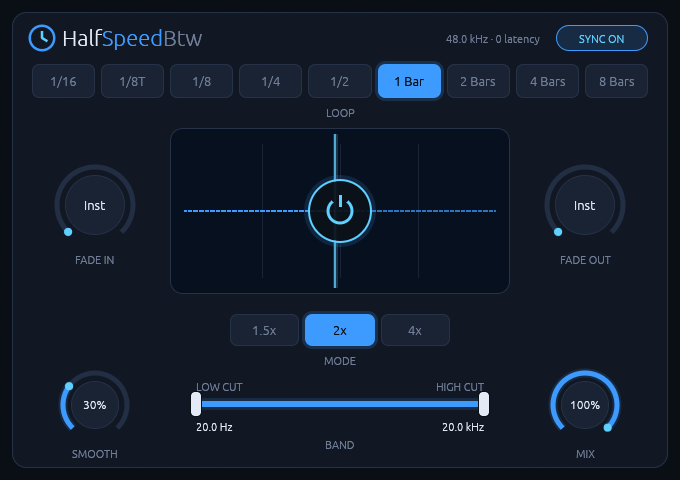
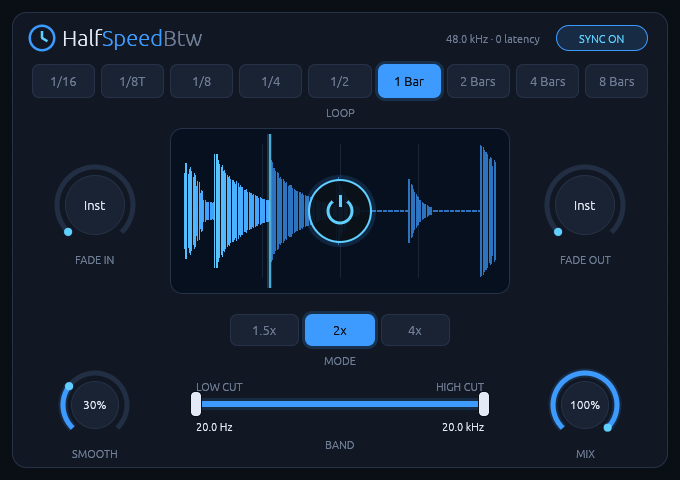
Rewrite README with features, screenshots, build and licensing
Describe the effect and every control, explain how it works and why
it adds no latency, list build and runtime requirements with Arch
packages, and give build, install and standalone instructions. Cover
licensing, third-party notices and trademarks.

Replace the screenshot with one of the plugin processing a drum loop
and add a second showing tweaked settings.

diff --git a/README.md b/README.md
@@ -1,57 +1,213 @@
 # HalfSpeedBtw
 
-![HalfSpeedBtw editor](docs/screenshot.png)
+**A tempo-synced half-speed loop effect for Linux, with zero added latency.**
+CLAP and VST3, written in Rust.
 
-A Linux-native slowdown loop effect (CLAP + VST3), written in Rust on
-[nice-plug](https://codeberg.org/RustAudio/nice-plug), the maintained community
-successor to nih-plug.
+![HalfSpeedBtw slowing down a drum loop: 1 bar, 2x](docs/screenshot.png)
 
-**Status:** the core half-speed effect works and is covered by tests. It hasn't
-been listening-tested in a DAW yet.
+HalfSpeedBtw makes anything sound like it's playing at half speed (or at 1.5x
+or 4x slower) while staying locked to your project's tempo. Put it on drums for
+the classic half-time groove, on a vocal for a dragged, pitched-down tail, or
+at short loop lengths for tape-stop and stutter effects. Automate the power
+switch to drop it in for a fill or a breakdown.
 
-## How it works
+It runs natively on Linux. It has no network access and no telemetry, and it
+never allocates memory on the audio thread.
 
-Each loop cycle replays the audio captured since the cycle started, slowed
-down by the mode (1.5x, 2x or 4x slower). The sample played `t` samples into a
-cycle was captured `t / slowdown` samples into it, so it is always in the
-past. That means **zero added latency**: no lookahead and nothing reported to
-the host.
+## Features
 
-- **Loop:** 1/16, 1/8T, 1/8, 1/4, 1/2, 1, 2, 4 or 8 bars. While the transport
-  plays with Sync on, cycles line up with the host's bar grid and time
-  signature. Seeking or a DAW loop wrap-around restarts the cycle at the right
-  offset. When the transport is stopped, or Sync is off, loops free-run at the
-  host tempo.
-- **Power switch** (center of the display): switches the effect on and off.
-  While it's off, the loop keeps running so it stays in time.
-- **Fade In / Fade Out:** how long the effect takes to fade in or out when
-  switched, from instant up to 16 bars.
-- **Smooth:** sets the equal-power crossfade at each loop restart, from 1 ms
+- **Three slowdown modes:** 1.5x, 2x and 4x slower. The pitch drops with the
+  speed, by about a fifth, one octave and two octaves.
+- **Nine tempo-synced loop lengths:** 1/16, 1/8T, 1/8, 1/4, 1/2, 1 bar, 2 bars,
+  4 bars and 8 bars, following the host's tempo and time signature.
+- **Locked to the bar grid:** loops restart on the host's grid while the
+  transport plays. They recover cleanly when you seek or when the DAW loops
+  back. While the transport is stopped, they keep running at the host tempo.
+- **Zero latency:** nothing is reported to the host and there's no lookahead.
+  See [How it works](#how-it-works).
+- **Musical fades:** separate fade in and fade out lengths for switching the
+  effect on and off, from instant up to 16 bars.
+- **Smooth:** an equal-power crossfade at every loop restart, from a tight 1 ms
   up to a quarter of the loop.
-- **Band:** a low cut and a high cut (12 dB/octave state-variable filters) on
-  the slowed-down signal. At their end stops the filters are fully bypassed.
-- **Mix:** dry/wet balance, smoothed over 20 ms.
-- **Display:** the slowed-down signal's level across the current cycle, with
-  a playhead.
-- **Not yet:** reverse playback and per-band processing.
+- **Band:** low cut and high cut filters on the slowed-down signal only, so the
+  dry signal keeps its full range.
+- **Mix:** blends the dry and slowed-down signals.
+- **Live waveform:** the display shows the slowed-down signal across the
+  current loop, with a playhead.
+- **Click-free:** every parameter change and every loop restart is ramped or
+  crossfaded, and all parameters can be automated sample-accurately.
+- **Mono and stereo.**
+
+## Screenshots
+
+| Classic half-time: 1 bar, 2x, everything open | Tweaked: 1/2 bar, 4x, fades, narrow band, 80% mix |
+| --- | --- |
+| ![Default settings with a drum loop playing](docs/screenshot.png) | ![Tweaked settings with a drum loop playing](docs/screenshot-tweaked.png) |
 
 ## Controls
 
-Drag knobs up or down; hold Shift for fine control. Double-click a knob or a
-band handle to reset it.
+| Control | Range | Default | What it does |
+| --- | --- | --- | --- |
+| **Power switch** (center of the display) | On / Off | On | Fades the effect in or out. While it's off, the loop keeps running, so switching it back on lands in time. |
+| **Loop** | 1/16 to 8 bars | 1 bar | Length of each loop cycle. |
+| **Mode** | 1.5x, 2x, 4x | 2x | How much slower the loop plays. |
+| **Fade In** | Inst to 16 bars | Inst | How long the effect takes to fade in after you switch it on. |
+| **Fade Out** | Inst to 16 bars | Inst | How long it takes to fade out after you switch it off. |
+| **Smooth** | 0 to 100% | 30% | Crossfade at each loop restart: 1 ms at 0%, a quarter of the loop at 100%. |
+| **Band** | 20 Hz to 20 kHz | Fully open | Low cut and high cut on the slowed-down signal (12 dB/octave). At their end stops the filters are switched off completely. |
+| **Mix** | 0 to 100% | 100% | Dry/wet balance. |
+| **Sync** (top right) | On / Off | On | On: loops follow the host's bar grid while playing. Off: loops free-run at the host tempo. |
 
-## Layout
+**Mouse:** drag knobs up or down, and hold Shift for fine control.
+Double-click a knob or a band handle to reset it. Every control is also
+available as a host parameter for automation.
 
-| Path                  | What it is                                                     |
-| --------------------- | -------------------------------------------------------------- |
-| `crates/halfspeed-dsp` | Plugin-API-independent DSP engine (no dependencies)            |
-| `crates/halfspeedbtw` | Plugin shell: parameters, editor, CLAP/VST3 export             |
-| `xtask`               | `cargo xtask bundle`, which builds `.clap` / `.vst3` bundles   |
+## How it works
 
-DSP logic belongs in `halfspeed-dsp`, so it can be tested without a host and kept
-independent of the plugin framework.
+At the start of each loop cycle, HalfSpeedBtw begins replaying the audio that
+arrives from that moment on, at half speed (or 1/1.5 or 1/4). Halfway through
+a 2x cycle, it is playing what came in a quarter of the way through. The
+playback position always trails the input, so the effect needs no lookahead
+and adds **no latency**. Over one cycle you hear the first half of that
+cycle's audio, stretched to fill the whole cycle. Then the next cycle starts
+fresh from the present.
 
-## Build and test
+Playback is resampled (like slowing down tape), not time-stretched, so pitch
+and speed change together. That's the characteristic sound of the effect.
+
+At each restart the old and new playback positions are crossfaded. **Smooth**
+sets how long that crossfade is.
+
+**CPU use** is low. The included benchmark runs with both band filters engaged
+at 48 kHz in stereo, and takes about 0.25% of one core on average. The slowest
+32-sample block used 4% of its time budget. Your numbers will vary; run the
+benchmark yourself with the command under [Development](#development).
+
+## Status and compatibility
+
+- **Platform:** Linux x86-64. Developed on Arch Linux.
+- **Formats:** CLAP and VST3, both built from the same binary.
+- **Hosts:** tested in Bitwig Studio. Other CLAP or VST3 hosts should work but
+  haven't been tried yet.
+- **Audio:** mono or stereo, at whatever sample rate the host uses. Loops of
+  up to 40 seconds of lag fit in the buffer, which covers 8 bars of 4/4 at 4x
+  down to 36 BPM. Below that, playback stops slowing down rather than breaking.
+- **Display:** X11, or XWayland on a Wayland desktop. The editor renders
+  through wgpu, normally on Vulkan.
+- **Not built yet:** reverse playback, separate processing for low, mid and
+  high bands, and presets.
+
+There are no prebuilt binaries yet; build it from source as described below.
+
+## Build requirements
+
+**To build the plugin:**
+
+- Rust **1.95 or newer**, with Cargo. The easiest way to get it is
+  [rustup](https://rustup.rs). The repository's `rust-toolchain.toml` selects
+  the stable channel.
+- A linker, which Rust uses on Linux anyway: `gcc` or `clang`. No other
+  system libraries are needed at build time, because the plugin loads X11 and
+  Vulkan at runtime instead of linking them.
+
+**To run the plugin:**
+
+- A CLAP or VST3 host.
+- X11 client libraries (`libX11`, `libX11-xcb`, `libxcb`). Any desktop with X11
+  or XWayland has them.
+- A Vulkan loader and a Vulkan driver for your GPU, from Mesa (AMD/Intel) or
+  NVIDIA's proprietary driver. Without Vulkan, wgpu can fall back to OpenGL;
+  that path hasn't been tested yet.
+
+**Optional, for the standalone app** (only needed when building with
+`--features standalone`):
+
+- ALSA development files and `pkg-config`.
+- JACK, or PipeWire's JACK support, if you want to use the JACK backend.
+  Install one or the other; on Arch, `pipewire-jack` and `jack2` conflict.
+
+On Arch Linux:
+
+```bash
+sudo pacman -S --needed rustup base-devel libx11 libxcb vulkan-icd-loader
+```
+
+And for the standalone app:
+
+```bash
+sudo pacman -S --needed alsa-lib pkgconf pipewire-jack
+```
+
+On other distributions, install the equivalent packages; the names vary.
+
+## Building and installing
+
+Clone the repository and change into it:
+
+```bash
+git clone <repository-url> HalfSpeedBtw && cd HalfSpeedBtw
+```
+
+Build the release bundles:
+
+```bash
+cargo xtask bundle halfspeedbtw --release
+```
+
+This writes `HalfSpeedBtw.clap` and `HalfSpeedBtw.vst3` to `target/bundled/`.
+
+Install them for your user:
+
+```bash
+mkdir -p ~/.clap ~/.vst3 && cp target/bundled/HalfSpeedBtw.clap ~/.clap/ && cp -r target/bundled/HalfSpeedBtw.vst3 ~/.vst3/
+```
+
+Or for all users:
+
+```bash
+sudo mkdir -p /usr/lib/clap /usr/lib/vst3 && sudo cp target/bundled/HalfSpeedBtw.clap /usr/lib/clap/ && sudo cp -r target/bundled/HalfSpeedBtw.vst3 /usr/lib/vst3/
+```
+
+Then rescan plugins in your DAW. In Bitwig Studio you can instead add
+`target/bundled/` as a plugin location while developing.
+
+To uninstall, delete the bundles again:
+
+```bash
+rm -rf ~/.clap/HalfSpeedBtw.clap ~/.vst3/HalfSpeedBtw.vst3
+```
+
+### Standalone app
+
+For quick tests without a DAW, HalfSpeedBtw can run as a standalone app. With
+the dummy backend it opens the editor with silent input:
+
+```bash
+cargo run -p halfspeedbtw --features standalone -- --backend dummy
+```
+
+With JACK (or PipeWire's JACK support), it processes real audio. Its inputs
+aren't connected automatically, so connect them yourself, for example with a
+patchbay like `qpwgraph`:
+
+```bash
+pw-jack cargo run -p halfspeedbtw --features standalone -- --backend jack --tempo 120
+```
+
+Run it with `--help` to see every option, including sample rate, period size
+and time signature.
+
+## Development
+
+The workspace has three crates:
+
+| Path | What it is |
+| --- | --- |
+| `crates/halfspeed-dsp` | The DSP engine: loop clock, playback, crossfades, fades, band filters. It has no dependencies and doesn't depend on any plugin API. |
+| `crates/halfspeedbtw` | The plugin: parameters, editor, CLAP/VST3 export and the optional standalone app. |
+| `xtask` | `cargo xtask bundle`, which builds the `.clap` and `.vst3` bundles. |
+
+Run the tests and lints:
 
 ```bash
 cargo test --workspace
@@ -61,57 +217,99 @@ cargo test --workspace
 cargo clippy --workspace --all-targets
 ```
 
-```bash
-cargo xtask bundle halfspeedbtw --release
-```
+The tests cover:
 
-The bundles are written to `target/bundled/`. To install them for your user:
+- **Accuracy:** playback matches the input at each slowdown ratio, and the
+  output is the same whatever host block size is used.
+- **Sync:** loops align to the beat grid and handle transport jumps.
+- **Transitions:** fade timing, and no clicks at loop restarts or when a
+  filter engages.
+- **Filters:** band attenuation, and tails that never decay into slow
+  subnormal numbers.
+- **Real-time safety:** a counting allocator checks that `process()` never
+  allocates memory.
+- **Stable IDs:** saved parameter and option IDs never change.
 
-```bash
-mkdir -p ~/.clap ~/.vst3 && cp target/bundled/HalfSpeedBtw.clap ~/.clap/ && cp -r target/bundled/HalfSpeedBtw.vst3 ~/.vst3/
-```
-
-Debug builds enable nice-plug's `assert_process_allocs`, which aborts if
-`process()` allocates. The `no_alloc` test checks the engine for heap use
-directly.
-
-To work on the GUI without a DAW, run it as a standalone app:
-
-```bash
-cargo run -p halfspeedbtw --features standalone -- --backend dummy
-```
-
-A rough CPU benchmark (real-time factor and worst block time per block size):
+Run the CPU benchmark (real-time factor and worst block per host block size):
 
 ```bash
 cargo run --release -p halfspeed-dsp --example bench
 ```
 
-## Design decisions
+**Rules the code follows:**
 
-- **Mode:** the first DSP prototype targets beat-synced loops (host tempo,
-  1/16 to 8 bars) with smooth crossfades. It does not aim for the lowest
-  possible live latency.
-- **Real-time rules:** no allocation, locks, logging, or I/O in `process()`.
-  Buffers are sized in `initialize`/`activate`.
-- **Parameter IDs** (`#[id = "..."]` in `crates/halfspeedbtw/src/params.rs`) are
-  permanent once released. A test fails if they change. The CLAP ID
-  `com.romanhofmann.halfspeedbtw` and the VST3 class ID are permanent too.
+- **The audio thread is real-time safe:** no memory allocation, locks, logging
+  or file access in `process()`. Buffers are sized in `activate()`. Debug
+  builds enable nice-plug's `assert_process_allocs`, which aborts if the audio
+  thread allocates.
+- **IDs are permanent once released:** these are the parameter and option IDs
+  (`#[id = "..."]` in `crates/halfspeedbtw/src/params.rs`), the CLAP ID
+  `com.romanhofmann.halfspeedbtw` and the VST3 class ID. DAW projects store
+  them, and a test fails if one changes by accident.
 
-## Rendering
+### Why wgpu?
 
-The editor renders through wgpu (Vulkan on Linux), not nice-plug-egui's
-default OpenGL renderer. On NVIDIA's proprietary driver (seen with 615.78),
-the OpenGL renderer segfaulted when the window opened. baseview calls
-`eglGetDisplay` on an X11 connection without naming the platform, and NVIDIA's
-EGL takes it for a Wayland display.
+nice-plug-egui renders with OpenGL by default. On NVIDIA's proprietary driver
+(seen with version 615.78), the OpenGL path segfaulted as soon as the editor
+window opened. The cause is that baseview calls `eglGetDisplay` on an X11
+connection without saying which platform it is, and NVIDIA's EGL treats it as
+a Wayland display. Rendering through wgpu avoids EGL entirely.
+
+## Troubleshooting
+
+- **The plugin doesn't show up:** check that the bundle is in `~/.clap`,
+  `~/.vst3`, `/usr/lib/clap` or `/usr/lib/vst3`, then rescan plugins in your
+  DAW.
+- **The editor window stays black or doesn't open:** check that a Vulkan
+  driver is installed. The `vulkaninfo` tool from `vulkan-tools` should list
+  your GPU. Bitwig Studio writes plugin errors to
+  `~/.BitwigStudio/log/engine.log`.
+- **It sounds out of sync:** check that Sync is on and the transport is
+  playing. While the transport is stopped, loops free-run and aren't tied to
+  the bar grid.
 
 ## Licensing
 
-HalfSpeedBtw is licensed under GPL-3.0-or-later (see `LICENSE`).
+HalfSpeedBtw is free software, licensed under the **GNU General Public License
+v3.0 or later** (`GPL-3.0-or-later`). You may use, study, share and modify it.
+If you distribute it, modified or not, you must do so under the same license
+and make the source code available. See [`LICENSE`](LICENSE) for the full
+text.
 
-Every shipped dependency uses a permissive license compatible with GPLv3: MIT,
-Apache-2.0, ISC, Zlib, BSD, or Unlicense. This includes nice-plug (ISC) and the
-`vst3` bindings (MIT OR Apache-2.0). egui's bundled default fonts are under
-OFL-1.1 and the Ubuntu Font Licence. Binary releases must include those
-notices.
+**Third-party components:** every dependency compiled into the plugin uses a
+permissive license compatible with GPLv3: MIT, Apache-2.0, ISC, Zlib, BSD or
+Unlicense. Notable ones:
+
+- [nice-plug](https://codeberg.org/RustAudio/nice-plug), the plugin framework:
+  ISC.
+- [`vst3`](https://crates.io/crates/vst3), the VST3 bindings, and
+  [`clap-sys`](https://crates.io/crates/clap-sys), the CLAP bindings: MIT OR
+  Apache-2.0.
+- [egui](https://github.com/emilk/egui),
+  [baseview](https://github.com/RustAudio/baseview) and
+  [wgpu](https://github.com/gfx-rs/wgpu), for the GUI: MIT and/or Apache-2.0.
+- `self_cell` is offered as Apache-2.0 OR GPL-2.0-only. HalfSpeedBtw uses it
+  under Apache-2.0.
+- egui's bundled default fonts are licensed under the SIL Open Font License
+  1.1 and the Ubuntu Font Licence 1.0. Binary releases must include those
+  notices.
+
+To list every crate in the dependency graph with its license, including
+build-only and optional ones:
+
+```bash
+cargo metadata --format-version 1 | python3 -c "import json,sys; [print(p['name'], p['version'], p.get('license')) for p in json.load(sys.stdin)['packages']]"
+```
+
+**Trademarks:** VST is a registered trademark of Steinberg Media Technologies
+GmbH. CLAP is an open standard by the free-audio project. HalfSpeedBtw is an
+independent project. It isn't affiliated with or endorsed by Steinberg,
+Cableguys (makers of HalfTime) or Cymatics (makers of Dejavu), whose plugins
+inspired the effect and its layout.
+
+## Acknowledgements
+
+Built on [nice-plug](https://codeberg.org/RustAudio/nice-plug), the
+community-maintained successor to Robbert van der Helm's
+[NIH-plug](https://github.com/robbert-vdh/nih-plug). The band filters are
+based on Andrew Simper's (Cytomic) trapezoidal state-variable filter.
